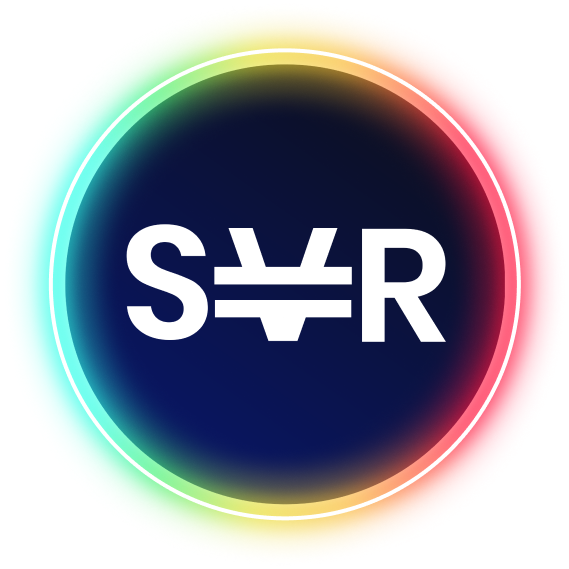
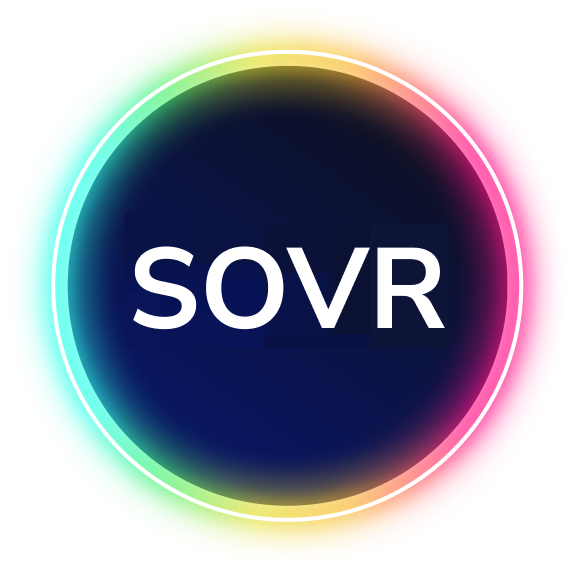
Change asset SVR -> SOVR and remove dynamic interest

diff --git a/index.html b/index.html
@@ -266,18 +266,16 @@
   <!-- Feature Cards -->
 
   <div id="feature-cards-row"class="row text-center">
-    <div class="col-xl-3 col-lg-6 col-sm-12">
+    <div class="col-xl-4 col-lg-6 col-sm-12">
       <img class="underlying-value" src="images/underlying-value.svg" alt="Underlying value of SVR token">
     </div>
-  <div class="col-xl-3 col-lg-6 col-sm-12 ">
+  <div class="col-xl-4 col-lg-6 col-sm-12 ">
     <img class="crowd-wisdom" src="images/crowd-wisdom.svg" alt="A diversified basket curated by the Reign community">
   </div>
-  <div class="col-xl-3 col-lg-6 col-sm-12 ">
+  <div class="col-xl-4 col-lg-6 col-sm-12 ">
     <img class="passive-voting" src="images/passive-voting.svg" alt="Set and forget your basket preferences">
   </div>
-  <div class="col-xl-3 col-lg-6 col-sm-12 ">
-    <img class="dynamic-interest" src="images/dynamic-interest.svg" alt="Dynamic interest will incentivise basket recomposition">
-  </div>
+  
 </div>
 
 
